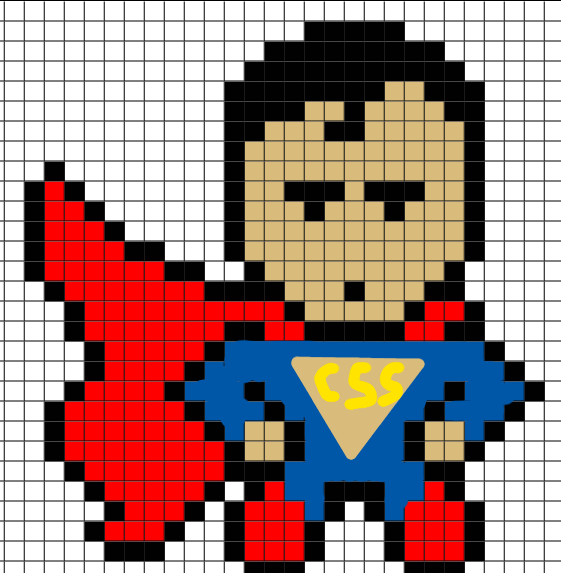
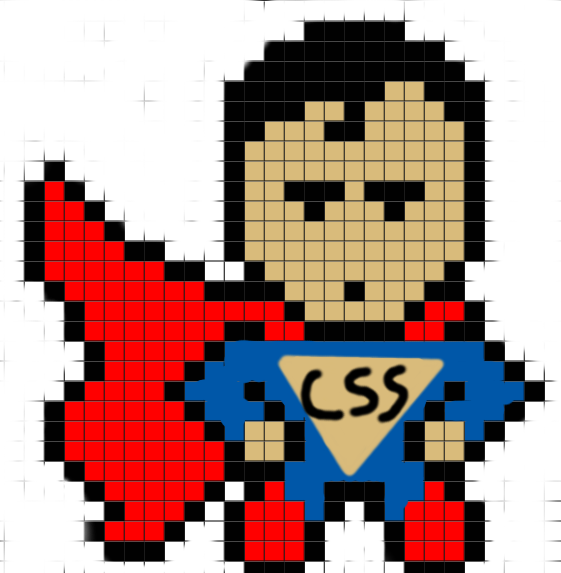
-ajout d'un menu -ajout d'images

diff --git a/WebContent/js/script.js b/WebContent/js/script.js
@@ -1,23 +1,54 @@
+var tab = ["image/adc.png","image/sgc.png","image/sous-marin.png","image/avion.png","image/css.png","image/br.png"];
+
+
+function getParam(param) {
+	var vars = {};
+	window.location.href.replace( location.hash, '' ).replace( 
+		/[?&]+([^=&]+)=?([^&]*)?/gi, // regexp
+		function( m, key, value ) { // callback
+			vars[key] = value !== undefined ? value : '';
+		}
+	);
+
+	if ( param ) {
+		return vars[param] ? vars[param] : null;	
+	}
+	return vars;
+}
+
+
+function getImg(){
+	x = tab[Math.floor(Math.random() * Math.floor(6))];
+	if (x ==  $('#joueur').attr('src')) {
+		getImg();
+	} else {
+		return x;
+	}
+	
+	
+}
+
 $(function() {
+	  var joueur = getParam('joueur');
+	   $('#joueur').attr('src',joueur);
       var ok = 1;
       var box = '#joueur',
       drag = $(".drag"),
       drop = $(".drop");
-
+  
       function deplace()
       {
+    	  
     	  var vitesse = Math.floor((3000-1500)*Math.random())+1500
         $('#vr').animate({top: '800'}, vitesse, 'linear', function(){
           var vrX = Math.floor(Math.random()*750);
           var vrY = 0;
+          $('#vr').attr('src',getImg);
           $('#vr').css('top',vrY);
           $('#vr').css('left',vrX);
+       
           ok = 1;
-        });
-       /* $('.fond').animate({top: '-=360'}, 1000, 'linear', function(){
-          $('.fond').css('top',0);
-          });*/
-         
+        });         
       };
 	   
       $(document).keydown(function(e){
@@ -53,7 +84,7 @@ $(function() {
           ok = 0;
       }
       
-
       deplace();
       setInterval(collision,10);
+
     });

diff --git a/WebContent/index.html b/WebContent/index.html
@@ -6,26 +6,18 @@
  <link rel="stylesheet" href="css/style.css" />
 </head>
 
-<body>
-  Collisions : <span id="info">0</span>
-  <div id="jeu">
-  
-    <img id="fond1" class="fond" src="image/paper-101205_960_720.png">
-    
-  
-  
-  
-    <img id="joueur" class="drag" src="image/sous-marin.png">
-    <img id="vr" class="drop" src="image/avion.png">
-  </div>
-  
+<body id="body">
+<div id="menu">
+<p>Joueur aléatoire !</p>
+<p>	<img id="imgJoueur" onclick="getPlayer()" src="image/hommeMystere.png"  ></p>
+	<a id="lienMenu" href="" onclick="genererLien()" title="start" >start</a>
+</div>
+ 
 
   <script src="http://ajax.googleapis.com/ajax/libs/jquery/1/jquery.min.js"></script>
-    <script src="js/script.js"></script>
-      <script src="js/jquery.overlaps.js"></script>
+  <script src="js/menu.js"></script>
+
   
-  <script> 
-    
-  </script>
+
 </body>
 </html>

diff --git a/WebContent/game.html b/WebContent/game.html
@@ -1,0 +1,34 @@
+<!DOCTYPE html>
+<html>
+<head>
+<meta charset="utf-8">
+<title>TP Web Jquery</title>
+<link rel="stylesheet" href="css/style.css" />
+</head>
+<body id="body">
+
+
+
+		Collisions : <span id="info">0</span>
+		<div id="jeu">
+
+			<img id="fond1" class="fond" src="image/paper-101205_960_720.png">
+
+
+
+
+			<img id="joueur" class="drag" > <img
+				id="vr" class="drop" src="image/avion.png">
+		</div>
+
+
+		<script
+			src="http://ajax.googleapis.com/ajax/libs/jquery/1/jquery.min.js"></script>
+		<script src="js/script.js"></script>
+		<script src="js/jquery.overlaps.js"></script>
+
+
+
+
+</body>
+</html>

diff --git a/WebContent/js/menu.js b/WebContent/js/menu.js
@@ -1,0 +1,17 @@
+var tab = ["image/adc.png","image/sgc.png","image/sous-marin.png","image/avion.png"];
+var currentimg;
+
+function getPlayer() {
+	currentimg = tab[Math.floor(Math.random() * Math.floor(4))];
+	$('#imgJoueur').attr('src',currentimg);
+	$("#imgJoueur").animate({		right: '500px', height: '600px',width: '300px'});
+	$("#lienMenu").show();
+}
+
+function genererLien(){
+
+	url = "game.html?joueur=" + currentimg; 
+	$("#lienMenu").attr('href',url);
+	console.log(currentimg);
+
+}

diff --git a/WebContent/css/style.css b/WebContent/css/style.css
@@ -29,9 +29,21 @@
       max-with : 150px;
       max-height : 150px;
     }
-                .over {
-                background: rgba(255, 0, 0, 0.5) !important;
-            }
-            .under {
-                max-with : 300px;
-            }
+#game {
+	visibility : hidden;
+}
+
+
+#imgJoueur {
+	 max-with : 150px;
+     max-height : 150px;
+}
+
+#menu {
+	text-align : center;
+	margin-top : 25%;
+}
+
+#lienMenu {
+	display : none;
+}
